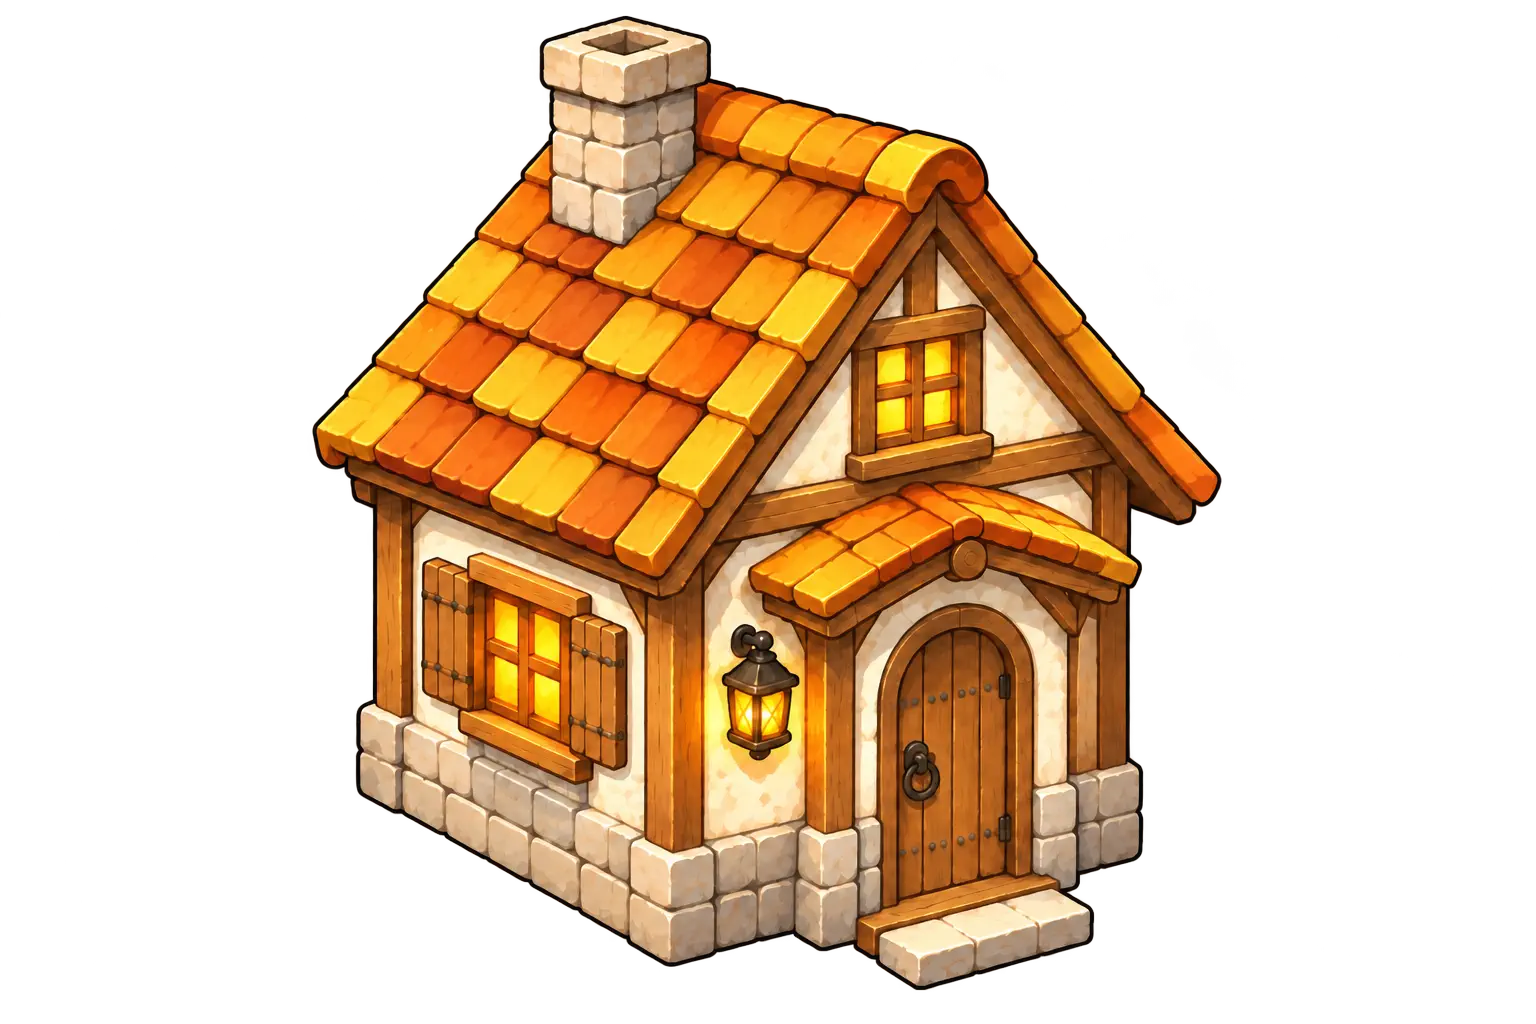
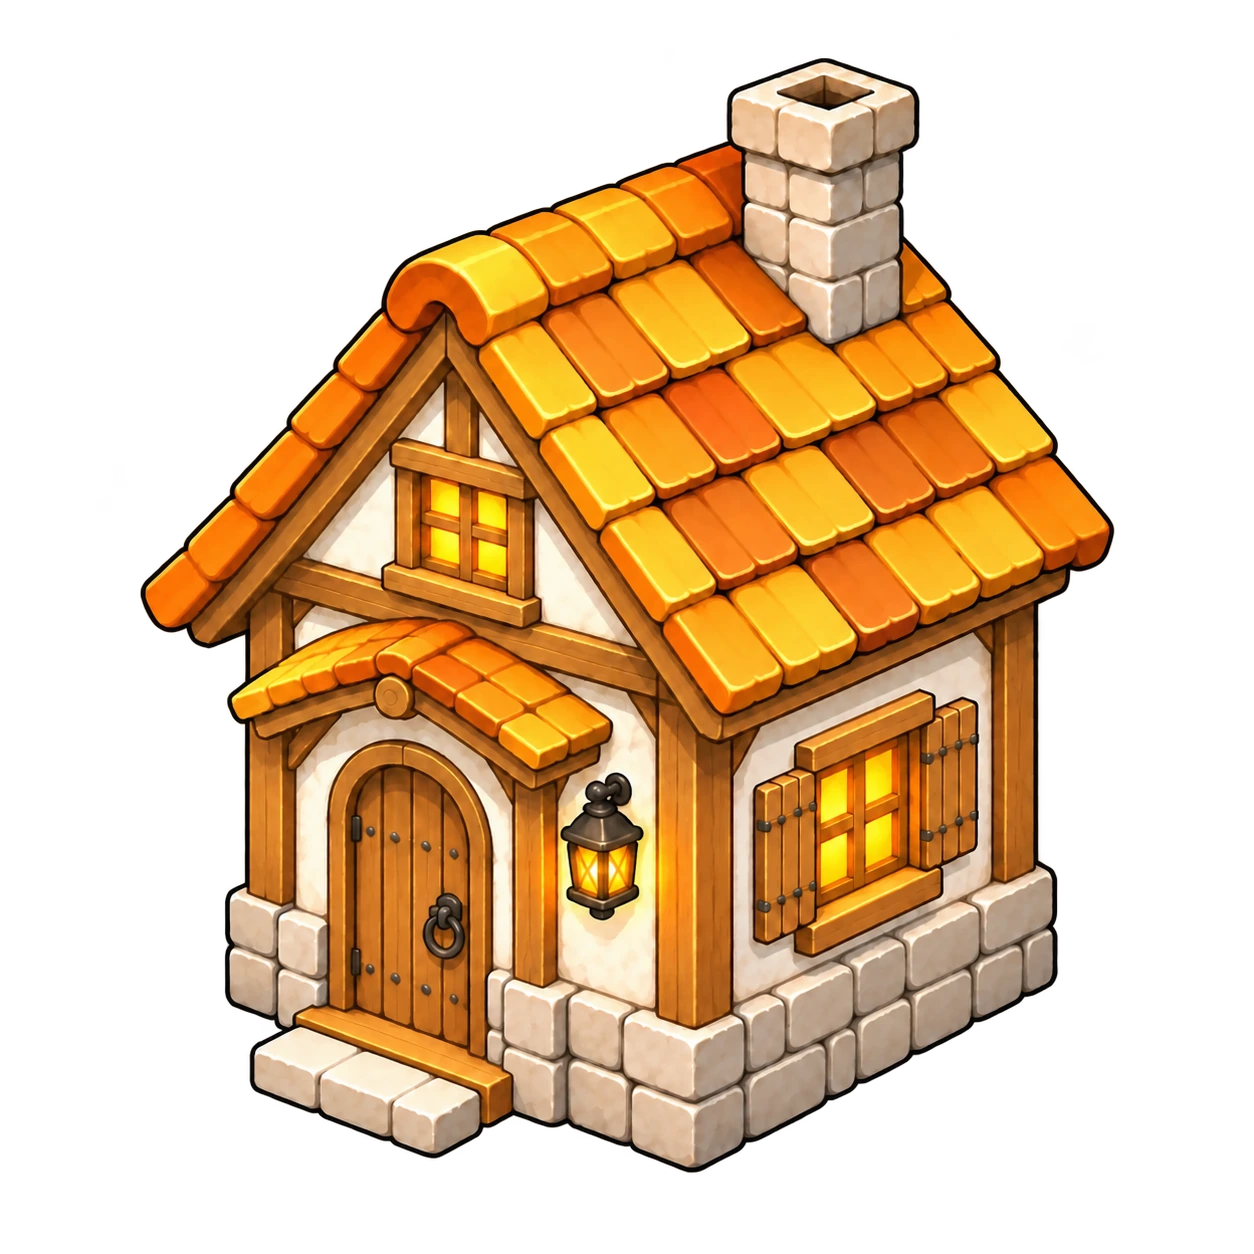
fix(money-level): normalize house art direction and palette

diff --git a/lib/money-level/forest/tax-artwork.ts b/lib/money-level/forest/tax-artwork.ts
@@ -79,34 +79,34 @@ const generatedFrame = (
 
 /** Runtime calibration for generated, season-neutral stage art. Each frame uses
  * the visible alpha object rather than the square file canvas. Reference widths
- * intentionally decrease gradually so upper stages grow without moving either
- * immutable house anchor. */
+ * compensate for per-asset canvas occupancy so the visible houses grow smoothly
+ * without moving either immutable house anchor. */
 export const HOUSE_STAGE_VISUAL_FRAMES: Record<string, HouseVisualFrame> = {
   "brokerage-stage-30-35-micro-house": generatedFrame({ width: 1254, height: 1254 }, [0, 39, 1200, 1230], 2200),
   "brokerage-stage-50-55-workshop-house": generatedFrame({ width: 1254, height: 1254 }, [14, 40, 1240, 1254], 1350),
   "brokerage-stage-55-60-two-story": generatedFrame({ width: 1254, height: 1254 }, [0, 53, 1246, 1228], 1330),
-  "brokerage-stage-60-65-two-story-garden": generatedFrame({ width: 1254, height: 1254 }, [0, 2, 1253, 1254], 1320),
-  "brokerage-stage-65-70-two-story-veranda": generatedFrame({ width: 1254, height: 1254 }, [0, 53, 1253, 1236], 1300),
-  "brokerage-stage-70-75-two-story-large": generatedFrame({ width: 1254, height: 1254 }, [0, 21, 1253, 1254], 1280),
-  "brokerage-stage-75-80-two-story-annex": generatedFrame({ width: 1254, height: 1254 }, [11, 92, 1244, 1200], 1260),
-  "brokerage-stage-80-85-mansion": generatedFrame({ width: 1254, height: 1254 }, [0, 19, 1254, 1203], 1240),
-  "brokerage-stage-85-90-mansion-garden": generatedFrame({ width: 1254, height: 1254 }, [0, 65, 1254, 1254], 1225),
-  "brokerage-stage-90-95-grand-mansion": generatedFrame({ width: 1254, height: 1254 }, [0, 15, 1254, 1254], 1210),
-  "brokerage-stage-95-100-grand-mansion-annex": generatedFrame({ width: 1254, height: 1254 }, [0, 40, 1254, 1254], 1200),
-  "tax-stage-30-35-micro-house": generatedFrame({ width: 1254, height: 1254 }, [97, 46, 1235, 1222], 1550),
-  "tax-stage-35-40-small-cabin": generatedFrame({ width: 1536, height: 1024 }, [0, 13, 1522, 994], 1650),
-  "tax-stage-40-45-expanded-cabin": generatedFrame({ width: 1536, height: 1024 }, [121, 8, 1459, 967], 1400),
-  "tax-stage-45-50-proper-house": generatedFrame({ width: 1254, height: 1254 }, [8, 128, 1245, 1073], 1280),
-  "tax-stage-50-55-workshop-house": generatedFrame({ width: 1254, height: 1254 }, [0, 57, 1254, 1230], 1270),
-  "tax-stage-55-60-two-story": generatedFrame({ width: 1254, height: 1254 }, [0, 39, 1247, 1231], 1250),
-  "tax-stage-60-65-two-story-garden": generatedFrame({ width: 1254, height: 1254 }, [11, 73, 1254, 1236], 1230),
-  "tax-stage-65-70-two-story-veranda": generatedFrame({ width: 1254, height: 1254 }, [13, 86, 1245, 1134], 1210),
-  "tax-stage-70-75-two-story-large": generatedFrame({ width: 1254, height: 1254 }, [0, 48, 1254, 1212], 1190),
-  "tax-stage-75-80-two-story-annex": generatedFrame({ width: 1254, height: 1254 }, [12, 53, 1245, 1195], 1170),
-  "tax-stage-80-85-mansion": generatedFrame({ width: 1254, height: 1254 }, [15, 58, 1254, 1198], 1150),
-  "tax-stage-85-90-mansion-garden": generatedFrame({ width: 1254, height: 1254 }, [0, 63, 1250, 1186], 1130),
-  "tax-stage-90-95-grand-mansion": generatedFrame({ width: 1254, height: 1254 }, [0, 104, 1254, 1123], 1110),
-  "tax-stage-95-100-grand-mansion-annex": generatedFrame({ width: 1254, height: 1254 }, [0, 25, 1254, 1235], 1100),
+  "brokerage-stage-60-65-two-story-garden": generatedFrame({ width: 1254, height: 1254 }, [0, 99, 1244, 1254], 1320),
+  "brokerage-stage-65-70-two-story-veranda": generatedFrame({ width: 1254, height: 1254 }, [0, 21, 1244, 1182], 1300),
+  "brokerage-stage-70-75-two-story-large": generatedFrame({ width: 1254, height: 1254 }, [0, 51, 1254, 1254], 1280),
+  "brokerage-stage-75-80-two-story-annex": generatedFrame({ width: 1254, height: 1254 }, [12, 19, 1253, 1200], 1260),
+  "brokerage-stage-80-85-mansion": generatedFrame({ width: 1254, height: 1254 }, [18, 64, 1254, 1228], 1240),
+  "brokerage-stage-85-90-mansion-garden": generatedFrame({ width: 1254, height: 1254 }, [18, 60, 1254, 1198], 1225),
+  "brokerage-stage-90-95-grand-mansion": generatedFrame({ width: 1254, height: 1254 }, [0, 35, 1254, 1230], 1210),
+  "brokerage-stage-95-100-grand-mansion-annex": generatedFrame({ width: 1254, height: 1254 }, [0, 21, 1254, 1230], 1200),
+  "tax-stage-30-35-micro-house": generatedFrame({ width: 1254, height: 1254 }, [0, 44, 1214, 1230], 1620),
+  "tax-stage-35-40-small-cabin": generatedFrame({ width: 1254, height: 1254 }, [0, 31, 1232, 1238], 1500),
+  "tax-stage-40-45-expanded-cabin": generatedFrame({ width: 1254, height: 1254 }, [0, 50, 1180, 1254], 1310),
+  "tax-stage-45-50-proper-house": generatedFrame({ width: 1254, height: 1254 }, [18, 65, 1237, 1230], 1270),
+  "tax-stage-50-55-workshop-house": generatedFrame({ width: 1254, height: 1254 }, [0, 65, 1224, 1230], 1250),
+  "tax-stage-55-60-two-story": generatedFrame({ width: 1254, height: 1254 }, [0, 31, 1222, 1229], 1220),
+  "tax-stage-60-65-two-story-garden": generatedFrame({ width: 1254, height: 1254 }, [0, 49, 1227, 1254], 1200),
+  "tax-stage-65-70-two-story-veranda": generatedFrame({ width: 1254, height: 1254 }, [39, 17, 1202, 1236], 1130),
+  "tax-stage-70-75-two-story-large": generatedFrame({ width: 1254, height: 1254 }, [0, 31, 1204, 1228], 1145),
+  "tax-stage-75-80-two-story-annex": generatedFrame({ width: 1254, height: 1254 }, [0, 52, 1236, 1254], 1165),
+  "tax-stage-80-85-mansion": generatedFrame({ width: 1254, height: 1254 }, [0, 17, 1224, 1254], 1135),
+  "tax-stage-85-90-mansion-garden": generatedFrame({ width: 1254, height: 1254 }, [20, 23, 1235, 1198], 1105),
+  "tax-stage-90-95-grand-mansion": generatedFrame({ width: 1254, height: 1254 }, [0, 41, 1220, 1223], 1090),
+  "tax-stage-95-100-grand-mansion-annex": generatedFrame({ width: 1254, height: 1254 }, [0, 19, 1254, 1230], 1100),
 };
 
 export function resolveHouseVisualFrame(placement: { x: number; y: number; width: number }, frame?: HouseVisualFrame) {
